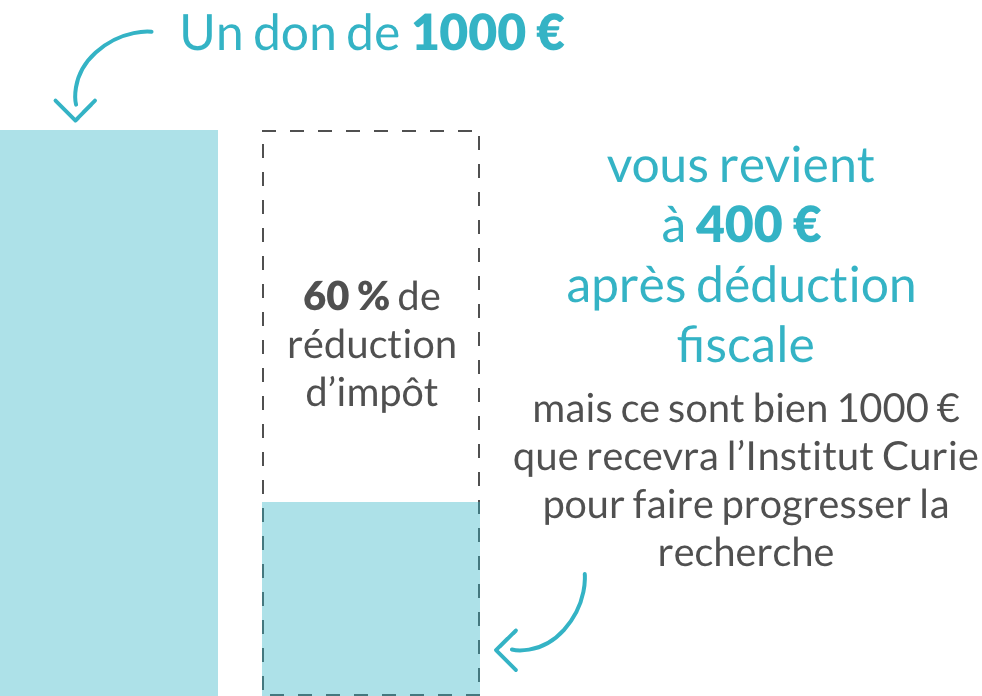
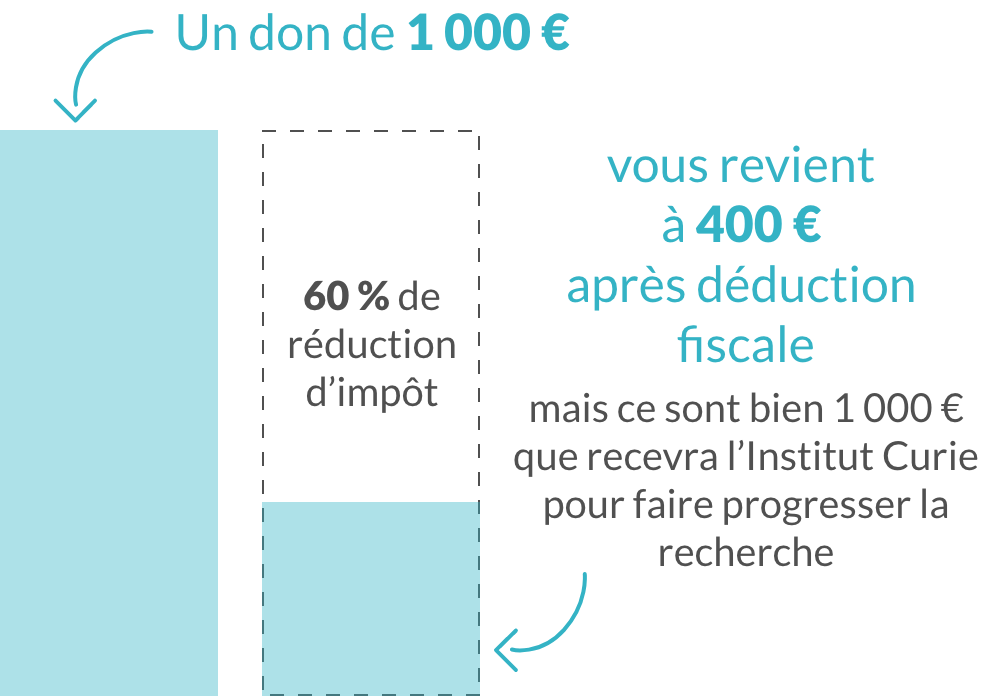
feat(message): working with the messages linked list

Changed region(s): [[0.1833, 0.0, 0.5804, 0.0905], [0.5193, 0.5431, 0.9776, 0.6034]]

diff --git a/src/lib/components/StickyBanner.svelte b/src/lib/components/StickyBanner.svelte
@@ -24,8 +24,8 @@
     let isOpen = false;
 </script>
 
-<div in:fade class="hidden fixed top-0 bg-[#4D54D6] bg-opacity-70 backdrop-blur-sm md:flex flex-row items-center justify-center w-screen lg:gap-5 xl:gap-8 2xl:gap-10 py-6 lg:h-[5rem] xl:h-[7rem] 2xl:h-[9rem] z-20">
-    <img target="_blank" href="https://curie.fr/" src="/logo_curie.png" class="lg:w-[10rem] xl:w-[16rem] lg:ml-2 2xl:mr-20" alt="curie"/>
+<div in:fade class="hidden fixed top-0 bg-[#4D54D6] bg-opacity-70 backdrop-blur-sm md:flex flex-row items-center justify-center w-screen py-6 lg:h-[5rem] xl:h-[7rem] 2xl:h-[9rem] z-20">
+    <img target="_blank" href="https://curie.fr/" src="/logo_curie.png" class="lg:w-[10rem] xl:w-[16rem]  mx-8" alt="curie"/>
     <button on:mouseenter={()=> isHoveringText = true} on:mouseleave={()=> isHoveringText = false}
             on:click={()=> {
                 isPopupVisibleMobile = false;
@@ -35,23 +35,23 @@
                     window.location.hash = "#projet1";
                 }, 100);}}
             class="flex flex-col items-center justify-center">
-        <a href="#ProjectsDesktop" class="text-white font-Raleway font-bold text-xl">
+        <a href="#ProjectsDesktop" class="text-white font-Raleway font-bold text-xl mx-8">
             Les projets soutenus
         </a>
         <span class={`h-0.5 bg-white rounded-3xl transition-width ${isHoveringText ? 'w-[10rem]' : 'w-[3rem]'}`}/>
     </button>
-    <button on:click={() => isPopupVisible = !isPopupVisible} on:mouseenter={()=> isHoveringText2 = true} on:mouseleave={()=> isHoveringText2 = false} class="flex flex-col items-center justify-center">
+    <button on:click={() => isPopupVisible = !isPopupVisible} on:mouseenter={()=> isHoveringText2 = true} on:mouseleave={()=> isHoveringText2 = false} class="mx-8 flex flex-col items-center justify-center">
         <span class="text-white font-Raleway font-bold text-xl">
-            Calculer sa réduction d'impôt
+            Calculer ma réduction d'impôt
         </span>
         <span class={`h-0.5 bg-white rounded-3xl transition-width ${isHoveringText2 ? 'w-[10rem]' : 'w-[3rem]'}`}/>
     </button>
-    <a target="_blank" href="https://aider.curie.fr/ifi" class="bg-[#FF6600] text-center uppercase text-xs xl:text-base 2xl:text-xl text-white w-[15rem] mr-2 2xl:w-[20rem] py-2 font-Raleway font-bold hover:border-2 hover:border-white transition-all relative">
+    <a target="_blank" href="https://aider.curie.fr/ifi" class="mx-8 bg-[#FF6600] text-center uppercase text-xs xl:text-base 2xl:text-xl text-white w-[15rem] mr-2 2xl:w-[20rem] py-2 font-Raleway font-bold hover:border-2 hover:border-white transition-all relative">
         JE FAIS UN DON<br/>
         Déductible de<br/>
         <span class="font-black">l’IFI</span>
     </a>
-    <a target="_blank" href="https://aider.curie.fr/don149" class="bg-[#4D54D6] text-center uppercase text-xs xl:text-base 2xl:text-xl text-white w-[15rem] mr-2 2xl:w-[20rem] py-2 font-Raleway font-bold hover:border-2 hover:border-white transition-all">
+    <a target="_blank" href="https://aider.curie.fr/don149" class=" mx-8 bg-[#4D54D6] text-center uppercase text-xs xl:text-base 2xl:text-xl text-white w-[15rem] mr-2 2xl:w-[20rem] py-2 font-Raleway font-bold hover:border-2 hover:border-white transition-all">
         JE FAIS UN DON<br/>
         déductible de<br/>
         <span class="font-black">L’impôt sur le revenu</span>
@@ -218,7 +218,7 @@
             </button>
             <button on:click={() => isPopupVisibleMobile = !isPopupVisibleMobile} on:mouseenter={()=> isHoveringText = true} on:mouseleave={()=> isHoveringText = false} class="flex flex-col items-center justify-center">
                 <span class="text-white font-Raleway font-bold text-xl ml-2">
-                    Calculer sa réduction d'impôt
+                    Calculer ma réduction d'impôt
                 </span>
             </button>
         </div>

diff --git a/src/lib/components/HeroSection.svelte b/src/lib/components/HeroSection.svelte
@@ -72,7 +72,7 @@
             de guérison aux patients.
             <br>
         </p>
-        <svg class="absolute right-20 w-[5rem] xl:w-[8rem] top-[30%] 2xl:top-[30%]" xmlns="http://www.w3.org/2000/svg" width="165.641" height="157.966" viewBox="0 0 165.641 157.966">
+        <svg class="absolute right-20 w-[5rem] xl:w-[8rem] lg:top-[30%] xl:top-[100px] 2xl:top-[30%]" xmlns="http://www.w3.org/2000/svg" width="165.641" height="157.966" viewBox="0 0 165.641 157.966">
             <g id="Group_572" data-name="Group 572" transform="translate(-1239.669 -569.432) rotate(8)">
                 <path id="Path_419" data-name="Path 419" d="M-2.183,18.171v-34.5H7.293v34.5Zm17.639,0v-34.5H39.121v8.261H24.932v5.734H36.5V5.342H24.932V18.171Zm29.593,0v-34.5h9.476v34.5ZM-23.478,57.89H-2.6v-4.9H-15.069c4.9-4.141,11.789-9.719,11.789-16.86,0-5.366-3.338-9.3-9.972-9.3-5.535,0-10.057,3.254-10.268,10.31h5.747c.042-3.254,1.606-5.282,4.437-5.282,2.916,0,4.141,1.859,4.141,4.606,0,5.662-7.31,11.113-14.282,17.029ZM1.114,42.509c0,9,2.7,15.719,11.409,15.719S23.932,51.51,23.932,42.509c0-8.916-2.7-15.592-11.409-15.592S1.114,33.594,1.114,42.509Zm16.986,0c0,5.493-.592,10.226-5.578,10.226S6.945,48,6.945,42.509c0-5.282.592-10.1,5.578-10.1S18.1,37.228,18.1,42.509ZM28.073,57.89H48.946v-4.9H36.481c4.9-4.141,11.789-9.719,11.789-16.86,0-5.366-3.338-9.3-9.972-9.3-5.535,0-10.057,3.254-10.268,10.31h5.747c.042-3.254,1.606-5.282,4.437-5.282,2.916,0,4.141,1.859,4.141,4.606,0,5.662-7.31,11.113-14.282,17.029Z" transform="translate(1373.018 435.904)" fill="#f60"/>
                 <path id="Path_420" data-name="Path 420" d="M6991.476,2373.175h41.583v129.751h-41.583" transform="translate(-5563.814 -1980)" fill="none" stroke="#f60" stroke-width="9"/>

diff --git a/src/lib/components/ProjectsMobile.svelte b/src/lib/components/ProjectsMobile.svelte
@@ -1,10 +1,6 @@
 <script>
     import {fly} from "svelte/transition";
     import {projectIndexStore} from "$lib/utils/utils.js";
-    import {onMount} from "svelte";
-
-    import IntersectionObserver from "svelte-intersection-observer";
-
     let projectTitle = [
         "Accélérer la recherche grâce à <span class=\"underline decoration-2 decoration-[#FF6600]\">deux équipements</span>",
         "Attirer les <span class=\"underline decoration-2 decoration-[#FF6600]\">meilleurs talents</span>",
@@ -28,8 +24,7 @@
 
 </script>
 
-<IntersectionObserver>
-    <div style="box-shadow: 0px 6px 40px rgba(0, 0, 0, 0.16);" class="bg-[#F1F2FC] w-[95%] flex flex-col items-center justify-center rounded-2xl py-5 mt-[3rem] relative">
+<div style="box-shadow: 0px 6px 40px rgba(0, 0, 0, 0.16);" class="bg-[#F1F2FC] w-[95%] flex flex-col items-center justify-center rounded-2xl py-5 mt-[3rem] relative">
         <div id="ProjectsMobile" class="absolute -top-40"/>
         <p  class="text-[#505050] font-Raleway font-bold text-[20px] uppercase text-center">
             Contre le cancer,<br/>
@@ -333,8 +328,7 @@
                 </div>
             </div>
         {/if}
-    </div>
-</IntersectionObserver>
+</div>
 
 <style>
     .underline {

diff --git a/src/lib/components/Infos.svelte b/src/lib/components/Infos.svelte
@@ -32,12 +32,9 @@
         touchStart = event.touches[0].clientX;
     }
 
-    // Fonction appelée lorsque l'utilisateur finit de toucher
     function handleTouchMove(event) {
         touchEnd = event.touches[0].clientX;
     }
-
-    // Fonction pour déterminer la direction du glissement et agir en conséquence
     function handleTouchEnd() {
         if (touchStart - touchEnd > 75) {
             next2();
